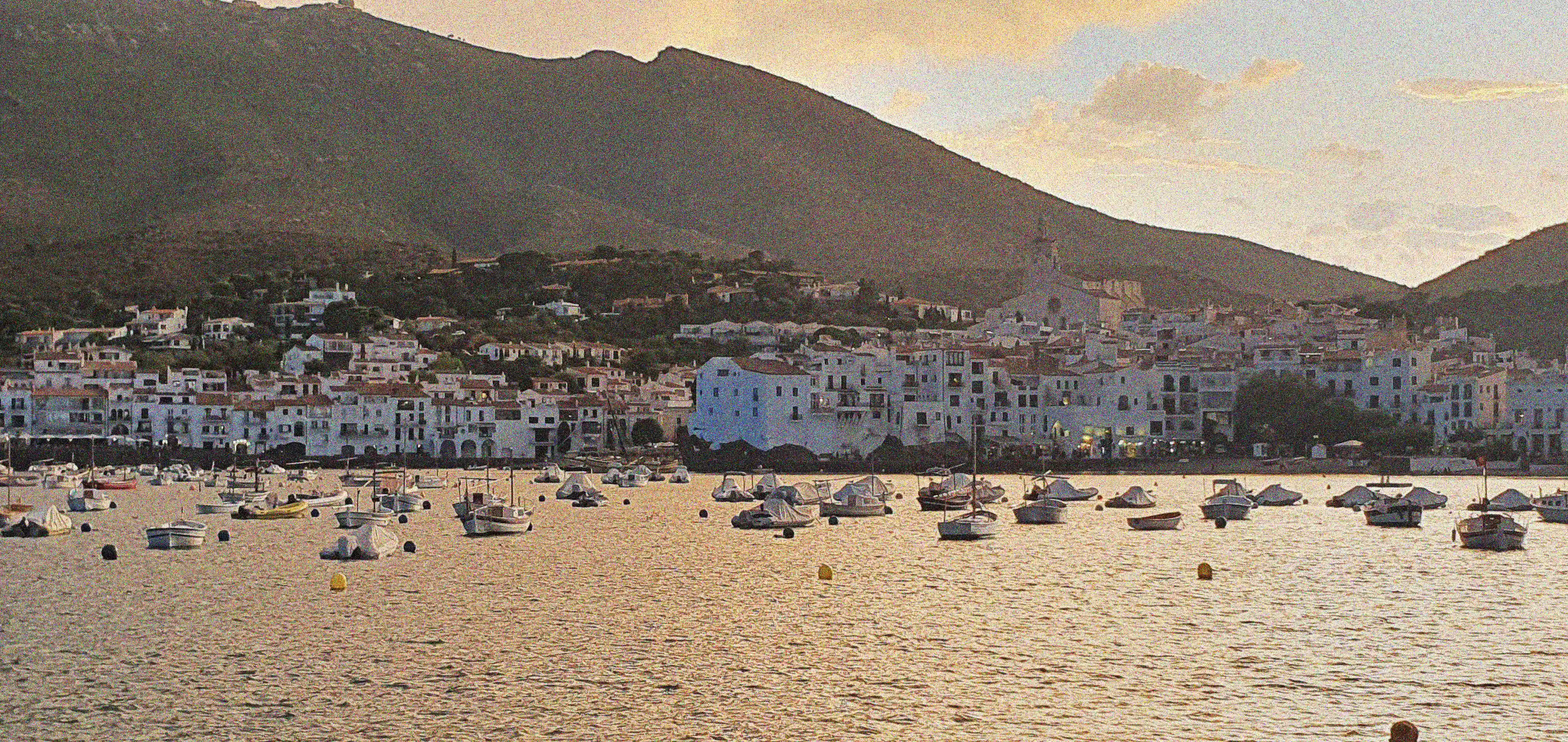
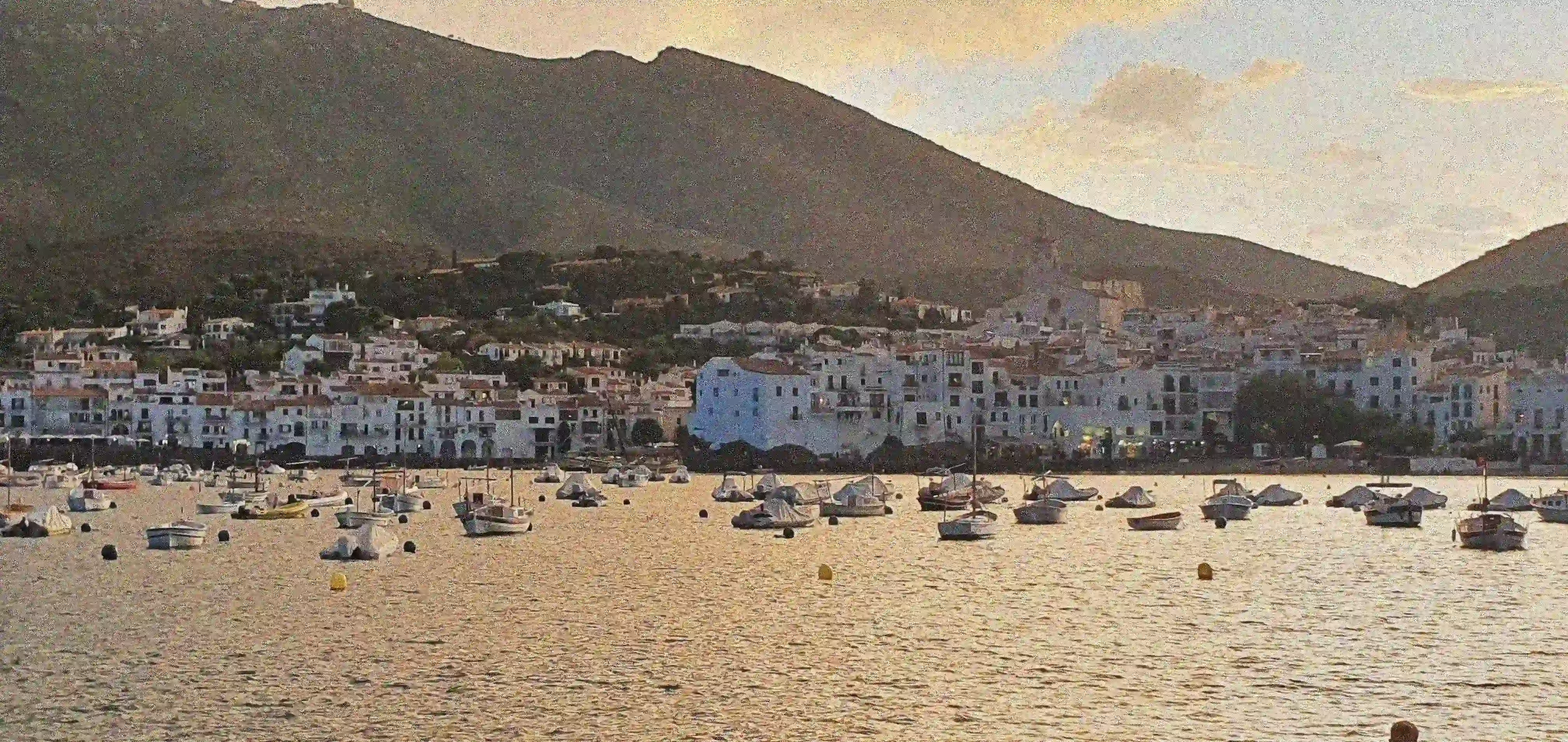
Lowered quality of image, added steam page link

diff --git a/index.html b/index.html
@@ -73,7 +73,7 @@
 						<div class = "font item">
 							<p class = "title">Fantasteroids</p>
 							<p class = "desc">A fully-fledged video game written in C++, based on the 1979 arcade classic.<br/><br/>
-								<a class = "link">On Steam soon!</a>
+								<a href = "https://store.steampowered.com/app/1790870/Fantasteroids/" target="_blank" class = "link">On Steam!</a>
 							</p>
 						</div>
 
